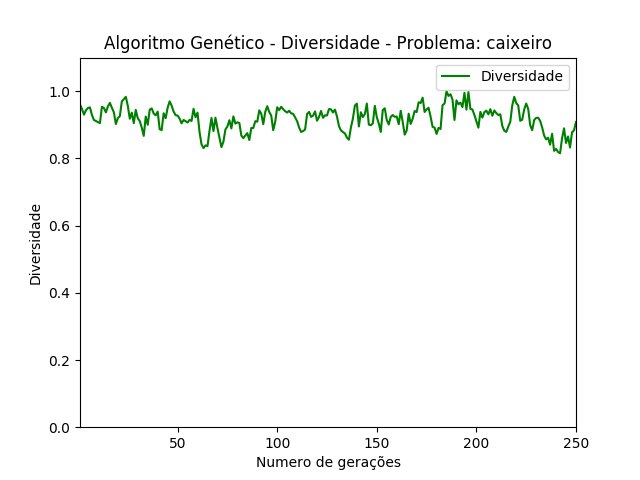
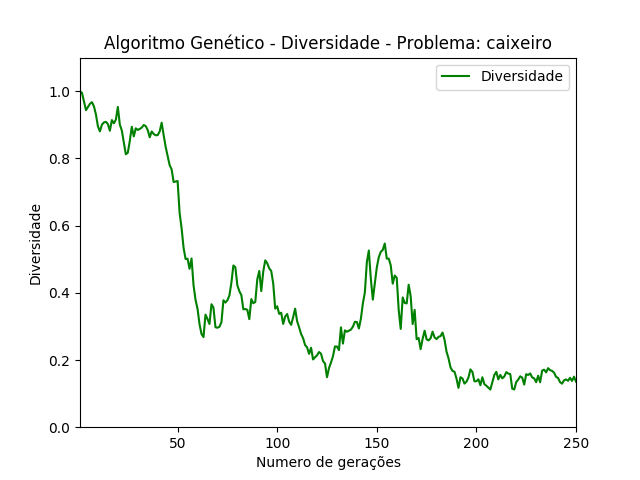
fixed TSP, but very sensitive to diversity population

diff --git a/GA/genetic_algorith.py b/GA/genetic_algorith.py
@@ -95,8 +95,8 @@ def fitness_calc():
             aux = fitness_standard_ackley(aux)
             l.append(aux)
     if typePopulation == 4:
-        aux = 0
         for i in range(nPopulation):
+            aux = 0
             for j in range(len(population[i])):
                 if j == len(population[i]) - 1:
                     c1 = population[i][j]
@@ -110,7 +110,10 @@ def fitness_calc():
                     l1 = traveling[c1]
                     l2 = traveling[c2]
                     aux += sqrt(pow(l1[0] - l2[0],2) + pow(l1[1] - l2[1],2))
+            aux = fitness_standard_traveling(aux)
             l.append(aux)
+        # print('POP',population)
+        # print('FITNESS',l)
     if typePopulation == 5:
         # fitness da funcao algebrica para maximizar o valor
         binPopulation = bin_population_calc(ilPopulation,slPopulation,precisionPopulation)
@@ -155,6 +158,11 @@ def bin_to_real_radio(individual,lowerBit,upperBit,t):
 def fitness_standard_algebra(x):
     # standarlization for algebra function problem
     x = (4 + x)/(2 + 4)
+    return x
+
+def fitness_standard_traveling(x):
+    # standarlization for Traveling Salesman Problem
+    x = 13 - x
     return x
 
 def fitness_standard_ackley(x):
@@ -442,12 +450,8 @@ def elitism_find(f,p):
     return best
 
 def elitism_act(p,best):
-    # print("##########################################################")
-    # print(p)
     p.pop(0)
     p.insert(0,best)
-    # print(p)
-    # print("##########################################################")
     return p
 
 def plotDiversity(problem,diversity):
@@ -558,12 +562,10 @@ if typePopulation == 6:
 
 #  MAIN LOOP
 populate()
-# print(population)
 # print("---------------------------------\n")
 for gen in range(generationsPopulation):
     diversityList.append(diversity_calc())
     fitness = fitness_calc()
-    # print(fitness)
     bestPopulation = elitism_find(fitness,population)
     newPopulation = selection(fitness,gen,tour)
     population = crossover(newPopulation)
